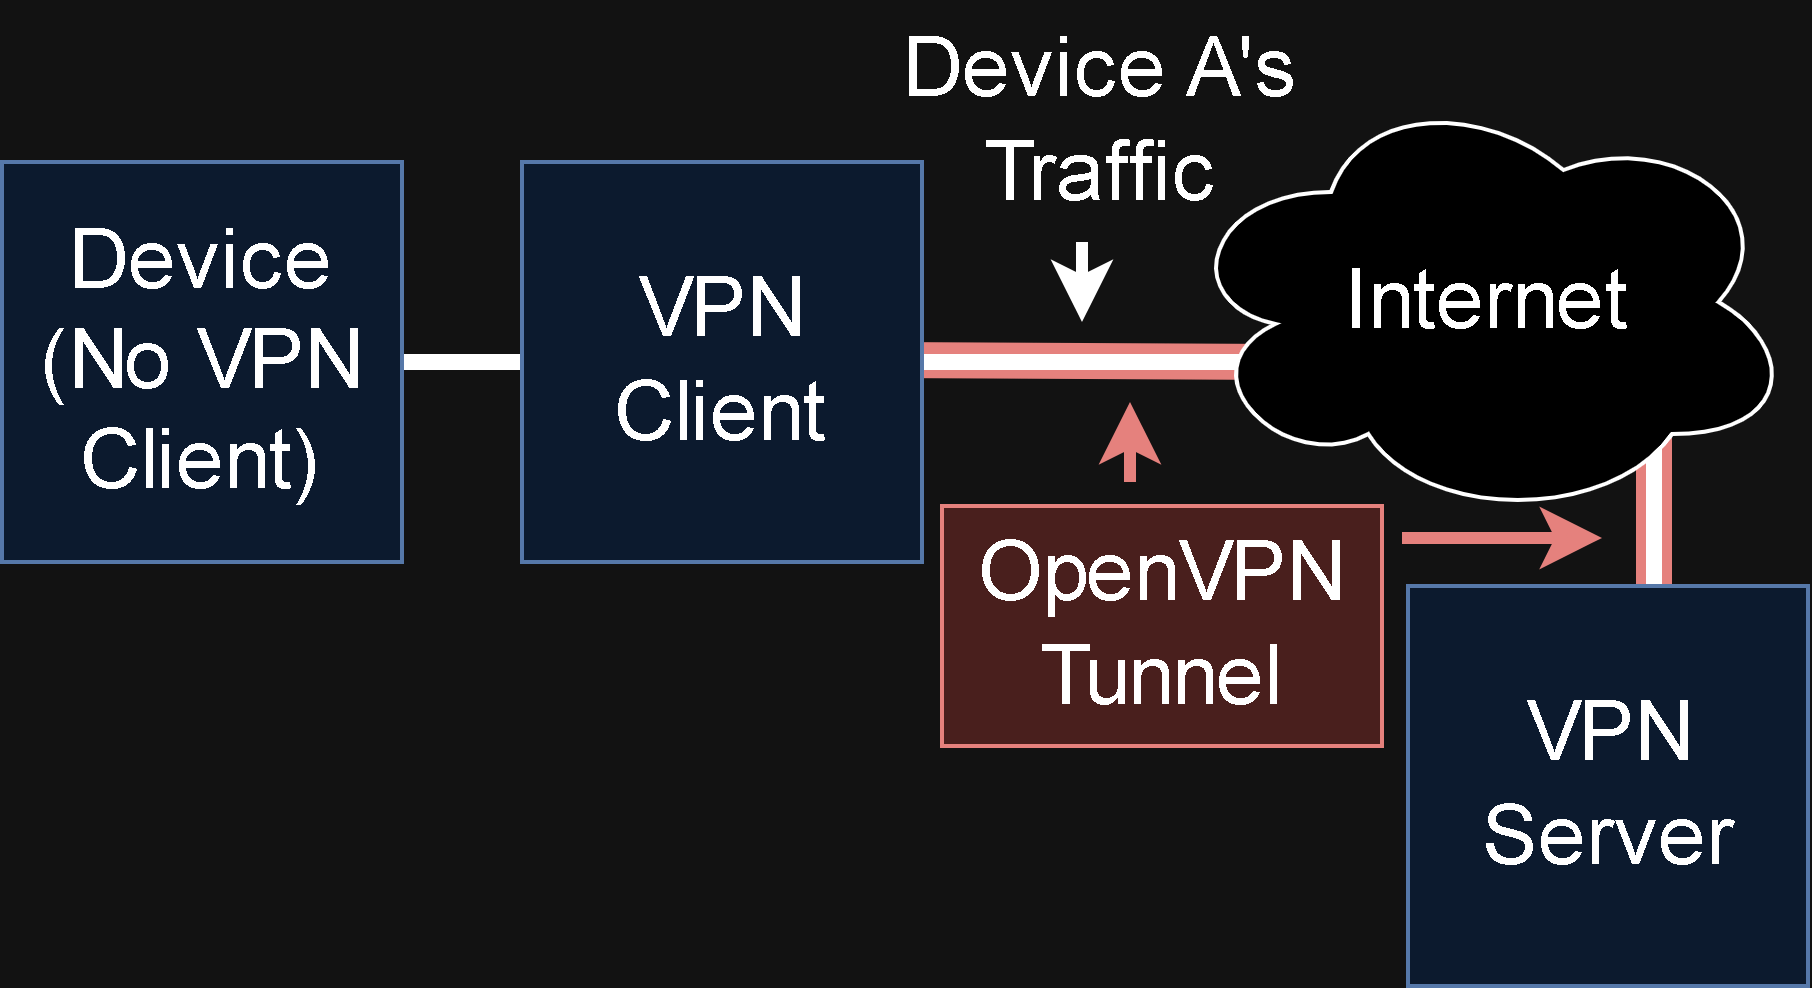
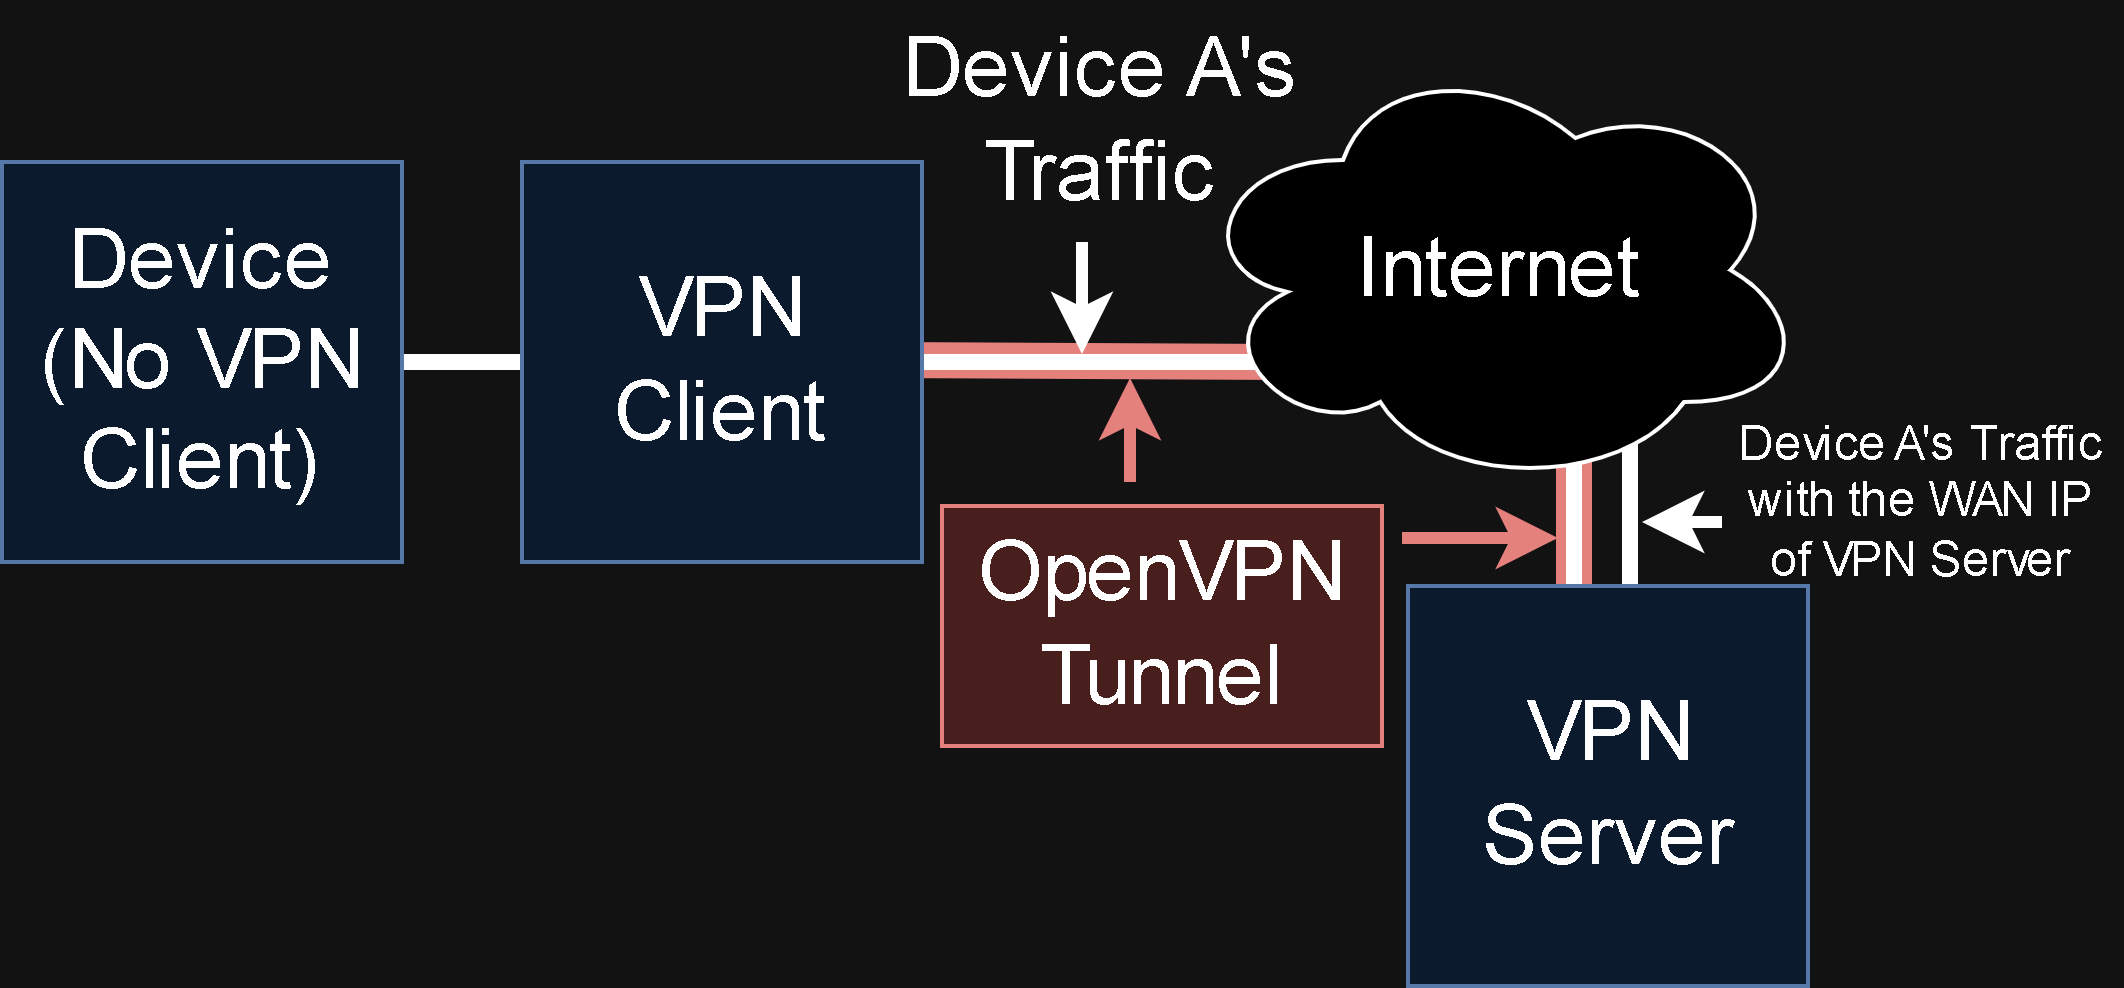
fix: update diagram and make copy to beginning of post

diff --git a/blog/blog-routing-over-vpn.html b/blog/blog-routing-over-vpn.html
@@ -18,6 +18,9 @@
       <h1 class="text-center black">Routing Non-VPN Client Traffic over VPN</h1>
       <div id="main-content" class="even-space">
         <p class="main-text">Have you ever wanted to route a device's traffic over a VPN but could not install a VPN client on that device? Let us call this "Device A." It is possible to route Device A's traffic to a computer (Device B) where the VPN client is installed. Device B will send traffic from Device A to the VPN server, and receive traffic from the VPN server to Device A</p>
+        <p class="main-text">Essentially, this will be the end result:</p>
+        <img style="width: 80%" src="media/routing_vpn/diagram.png"/>
+        <p class="caption">Final diagram of the network.</p>
         <h2>Preparing a Proxmox Container to be the VPN Server</h2>
         <p class="main-text">By default, Proxmox Containers can not be a VPN Server or Client because they do not have <code>tun</code> adapters. As a result, they need to use the Proxmox host's <code>tun</code> adapter. After creating the OpenVPN container using the Proxmox GUI, I followed <a class="link" href="https://pve.proxmox.com/wiki/OpenVPN_in_LXC">this guide from Proxmox</a> on how to configure an OpenVPN server in Proxmox. Specifically, I copied the following code into <code>/etc/pve/lxc/123.conf</code>:<br>
         <code>lxc.cgroup2.devices.allow: c 10:200 rwm</code><br>
